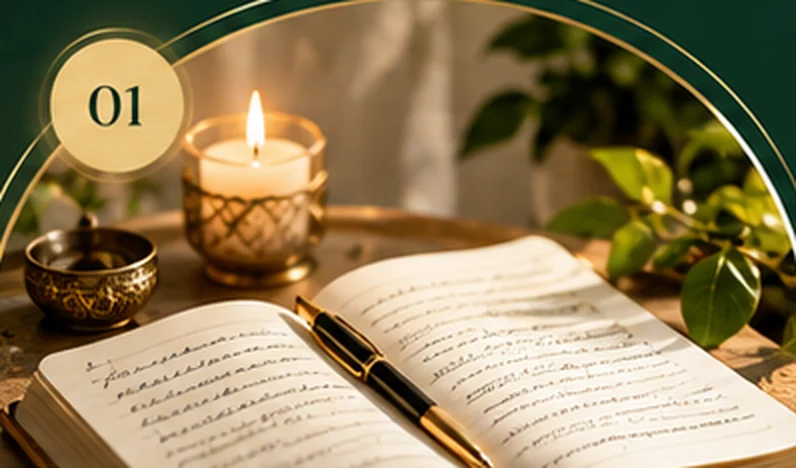
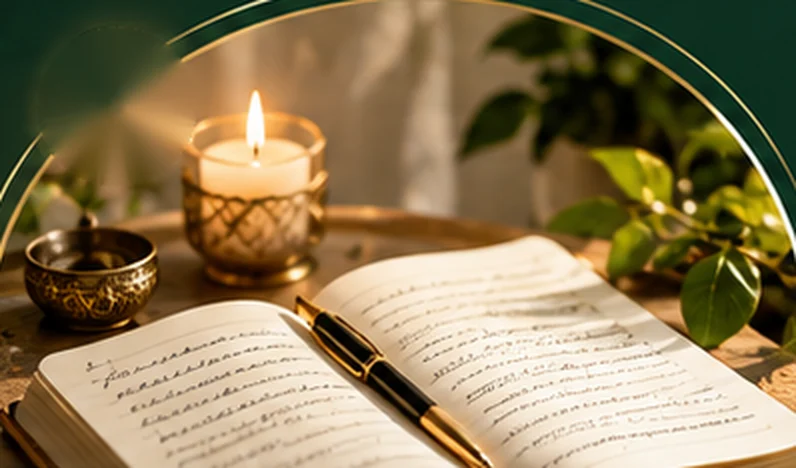
Services phones: practice chips in a tidy 2x2 grid, her-method as arched cards, printed numbers removed from method photos

Changed region(s): [[0.0302, 0.0598, 0.2412, 0.3889]]

diff --git a/src/app/globals.css b/src/app/globals.css
@@ -21935,3 +21935,27 @@ section.fq.fq-rich .fq-q { padding-left: 16px; text-align: left; }
 section.fq.fq-rich h2 { white-space: nowrap; }
 section.fq.fq-rich h2 em { display: block; }
 @media (min-width: 901px) { .fq-rich .fq-top { gap: 24px; } .fq-rich .fq-portrait { width: clamp(190px, 15vw, 240px); } }
+
+/* Phones: practice chips in a 2x2 grid; her-method cards as photo-on-top arches, two across for the first two. */
+@media (max-width: 900px) {
+  .svh-jump-m { grid-template-columns: 1fr 1fr; gap: 8px; }
+  .svh-jump-m a { justify-content: flex-start; min-height: 40px; padding: 0 12px; font-size: 13px; white-space: nowrap; }
+  .svh-jump-m a span { width: 20px; }
+  .hm2-cards { grid-template-columns: 1fr 1fr; gap: 10px; }
+  .hm2-cards > li { flex-direction: column; border-radius: 70px 70px 16px 16px / 50px 50px 16px 16px; }
+  .hm2-cards > li:last-child { grid-column: 1 / -1; flex-direction: row; border-radius: 16px; }
+  .hm2-photo { width: 100%; height: 110px; aspect-ratio: auto; border-radius: 70px 70px 0 0 / 50px 50px 0 0; }
+  .hm2-cards > li:last-child .hm2-photo { width: 38%; height: auto; border-radius: 0; }
+  .hm2-num { left: 50%; top: 6px; transform: translateX(-50%); width: 30px; height: 30px; font-size: 12px; }
+  .hm2-cards > li:last-child .hm2-num { left: 8px; transform: none; }
+  .hm2-body { padding: 10px 10px 12px; }
+  .practice-site main .hm2-text h3 { font-size: 17px; }
+  .practice-site main .hm2-text p { font-size: 12px; line-height: 1.4; }
+  .hm2-rule { margin-top: 6px; }
+  .hm2-tags { gap: 5px; margin-top: 8px; }
+  .hm2-tags a { min-height: 28px; gap: 5px; padding: 0 9px; font-size: 11.5px; }
+  .hm2 .cn-inner { padding-bottom: 38px; }
+  .hm2-wave { height: 26px; }
+  .hm2-wave::after { bottom: 4px; font-size: 12px; }
+}
+@media (max-width: 900px) { .svh-jump-m li { display: flex; } .svh-jump-m a { flex: 1; justify-content: center; } }
